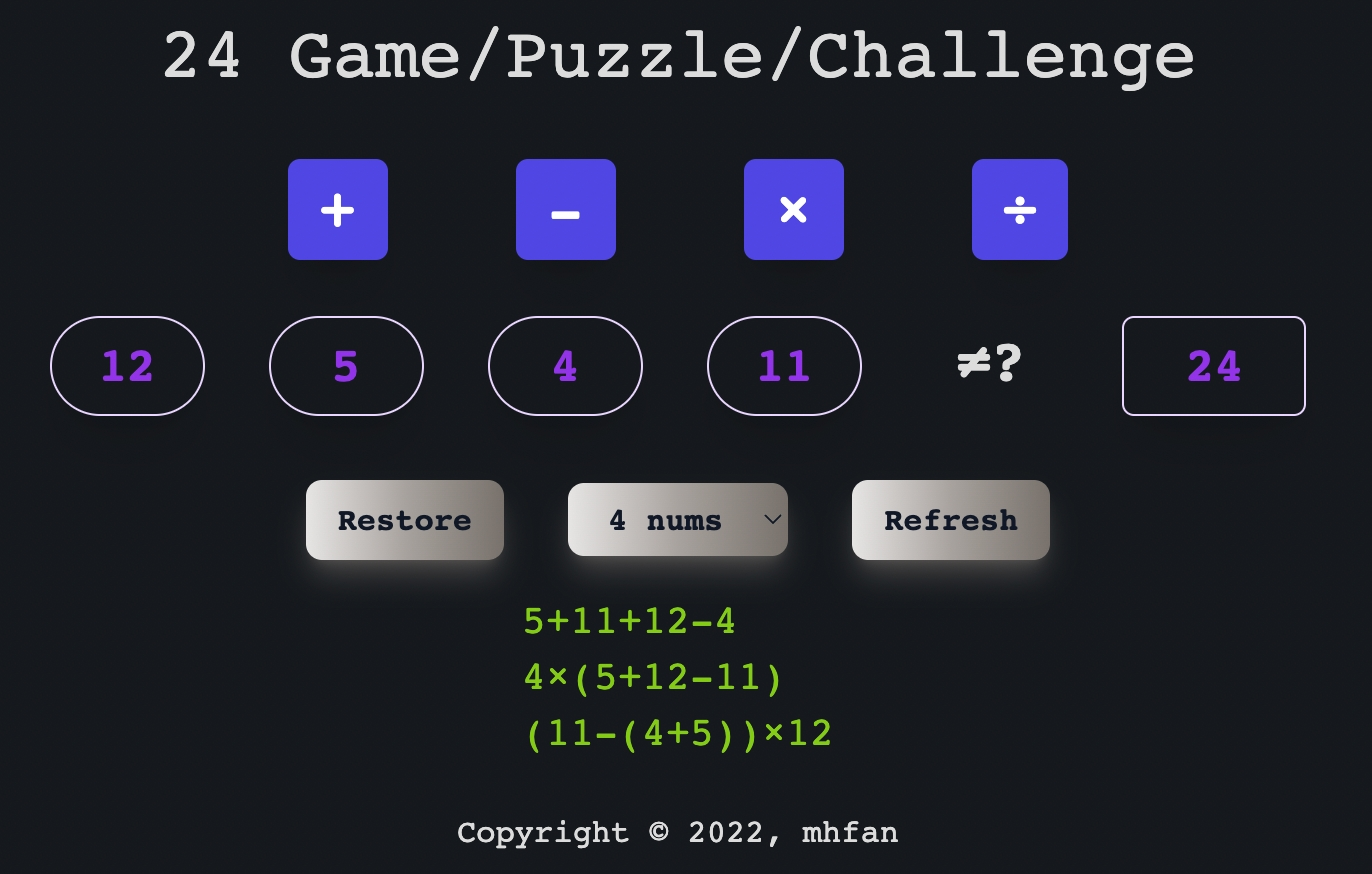
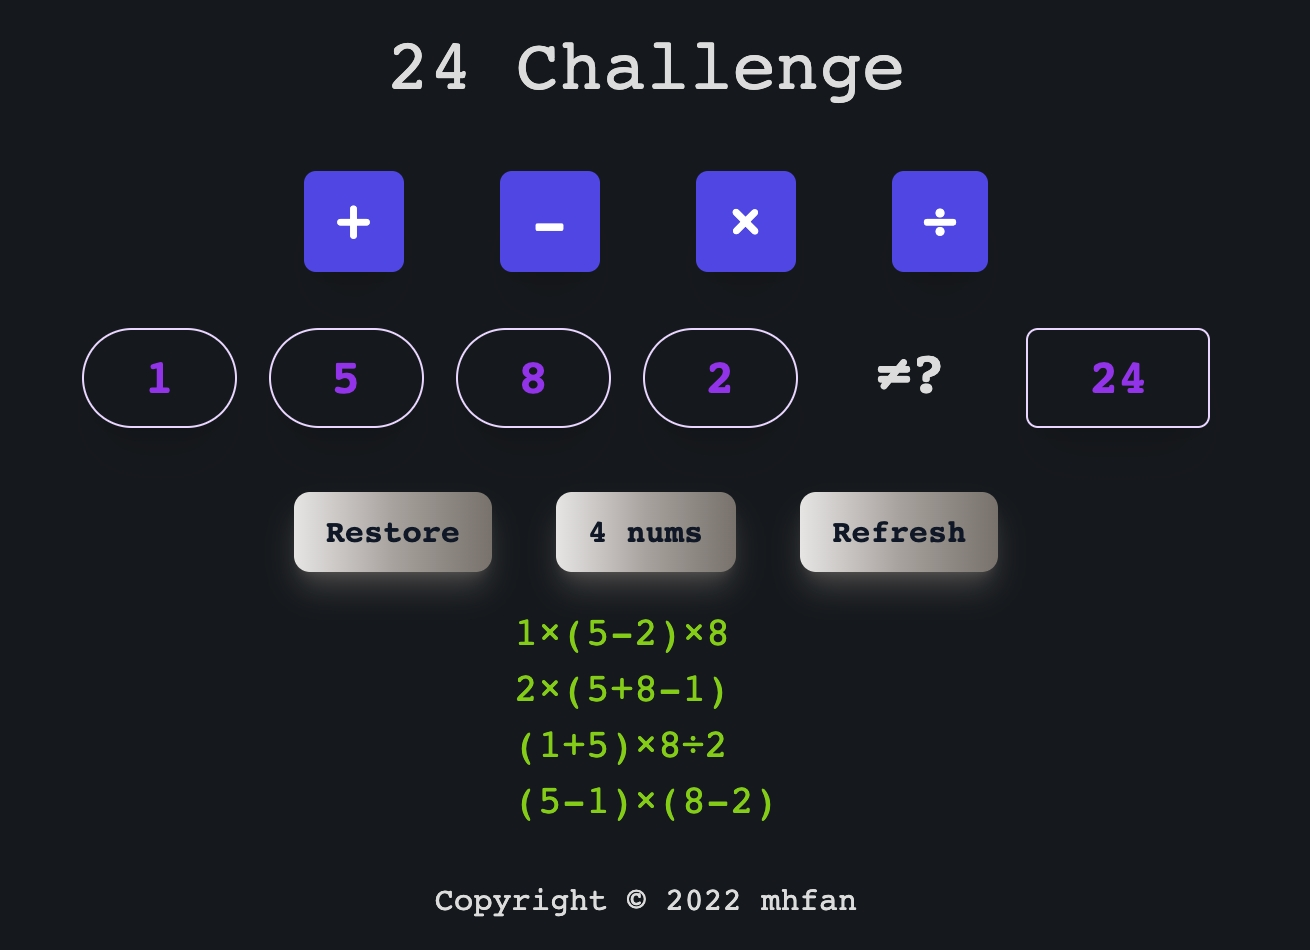
fix change numbers count, improve for mobile and minor refined
update screenshot

diff --git a/src/main.rs b/src/main.rs
@@ -83,23 +83,23 @@ impl Game24 {
         self.elem_nq.iter().for_each(|el| Self::toggle_hl(el, false));
         self.elem_nq.clear();   self.elem_op = None;    self.cnt = 1;
 
-        let elem_eq = self.elem_eq.cast::<HtmlElement>().unwrap();
+        let  elem_eq = self.elem_eq.cast::<HtmlElement>().unwrap();
         elem_eq.class_list().remove_5("ring-red-400",   // XXX: better ideas?
             "text-red-500", "text-lime-500",
             "ring-lime-400", "ring-2").unwrap();
         elem_eq.set_inner_text("≠?");
 
         self.sol_div.cast::<HtmlElement>().unwrap().set_inner_text("");
-
+        let coll = self.num_div.cast::<HtmlElement>().unwrap().children();
         //let coll = web_sys::window().unwrap().document().unwrap()
         //    .get_element_by_id("num-operands").unwrap().children();
-        let coll = self.num_div.cast::<HtmlElement>().unwrap().children();
 
-        for i in   0..coll.length() {
+        for i in 0..coll.length() {
             let inp = coll.item(i).unwrap()
                 .dyn_into::<HtmlInputElement>().unwrap();
+            if (self.nums.len() as u32 - 1) < i { inp.set_hidden(true); continue }
             inp.set_max_length(3);  inp.set_size(3);    inp.set_hidden(false);
-        }
+        }   //log::info!("clear state");
     }
 
     fn toggle_hl(el: &HtmlInputElement, hl: bool) {
@@ -165,14 +165,14 @@ impl Component for Game24 {
 
     let num_changed = link.batch_callback(|e: Event| {
         let inp = e.target().unwrap().dyn_into::<HtmlInputElement>().unwrap();
-        let str = inp.value();  log::info!("input {}", str);
+        let str = inp.value();  //log::info!("input {}", str);
         if !str.is_empty() && inp.check_validity() {    inp.set_read_only(true);
             Some(Msg::Update(inp.get_attribute("id").unwrap().get(1..).unwrap()
                 .parse::<u8>().unwrap(), str.parse::<i32>().unwrap()))
         } else { inp.focus().unwrap();   inp.select();  None }
     });
 
-    let num_checked = link.callback(|e: FocusEvent|
+    let num_checked = link.callback(|e: MouseEvent|
         Msg::Operands(e.target().unwrap().dyn_into::<HtmlInputElement>().unwrap()));
 
     let num_class = "px-4 py-2 mx-2 my-4 w-fit appearance-none
@@ -238,9 +238,9 @@ impl Component for Game24 {
                 [contenteditable='true'].single-line  * { display: inline; white-space: nowrap; }
             " }</style>*/
 
-            <div id="num-operands" class="inline-block" ref={ self.num_div.clone() }
+            <span id="num-operands" class="inline-block" ref={ self.num_div.clone() }
                 ondblclick={ num_editable.clone() } onchange={ num_changed.clone() }
-                onfocus={ num_checked } onblur={ num_readonly.clone() }>{ nums }</div>
+                onclick={ num_checked } onblur={ num_readonly.clone() }>{ nums }</span>
 
             // data-bs-toggle="collapse" data-bs-target="#all-solutions" aria-expanded="false" aria-controls="all-solutions"
             <button onclick={ resolve } ref={ self.elem_eq.clone() } //text-white
@@ -302,21 +302,19 @@ impl Component for Game24 {
                 //inp.set_selection_range(end, inp.value().len() as u32).unwrap();
                 if self.cnt < 2 { inp.set_read_only(false); }
                 if inp.get_attribute("id").unwrap().starts_with('N') {
-                    self.update(_ctx, Msg::Operands(inp));  // don't check on editing
+                    //self.update(_ctx, Msg::Operands(inp));  // don't check on editing
                 }   false
             }
 
-            Msg::Resize(n) => {    self.clear_state();
-                if 0 < n { self.dealer(n as usize); } else {
-                           self.dealer(self.nums.len());
-                }   true
+            Msg::Resize(n) => {
+                self.dealer(if 0 < n { n as usize } else { self.nums.len() });
+                self.clear_state();     true
             }
 
             Msg::Restore => { self.clear_state();   true }
             Msg::Update(idx, val) => {  let idx = idx as usize;
-                if idx == self.nums.len() { self.goal = val; } else {
-                    self.nums[idx] = val;
-                }   false
+                if idx == self.nums.len() { self.goal = val; } else { self.nums[idx] = val; }
+                false
             }
 
             Msg::Resolve => {
@@ -350,8 +348,8 @@ fn root_route(routes: &RootRoute) -> Html {
     match routes {
         RootRoute::Home  => html!{ <>
             //margin: 0 auto;   //class: justify-center;    // XXX: not working
-            <style>{ r"body { text-align: center; }" }</style>
-                    // height: 100vh; display: flex; flex-direction: column;
+            <style>{ r"body { text-align: center; height: 100vh; }" }</style>
+                    // display: flex; flex-direction: column;
 
             <header><br/><h1 class="text-4xl"><a href="https://github.com/mhfan/inrust">{
                 "24 Challenge" }</a></h1><br/>
@@ -359,7 +357,7 @@ fn root_route(routes: &RootRoute) -> Html {
 
             <Game24 />
 
-            <footer><br/><p>{ "Copyright © 2022, " }    // &copy;
+            <footer><br/><p>{ "Copyright © 2022 " }  // &copy; // classe="absolute bottom-0"
                 <a href="https://github.com/mhfan">{ "mhfan" }</a></p><br/></footer>
         </> },
 
